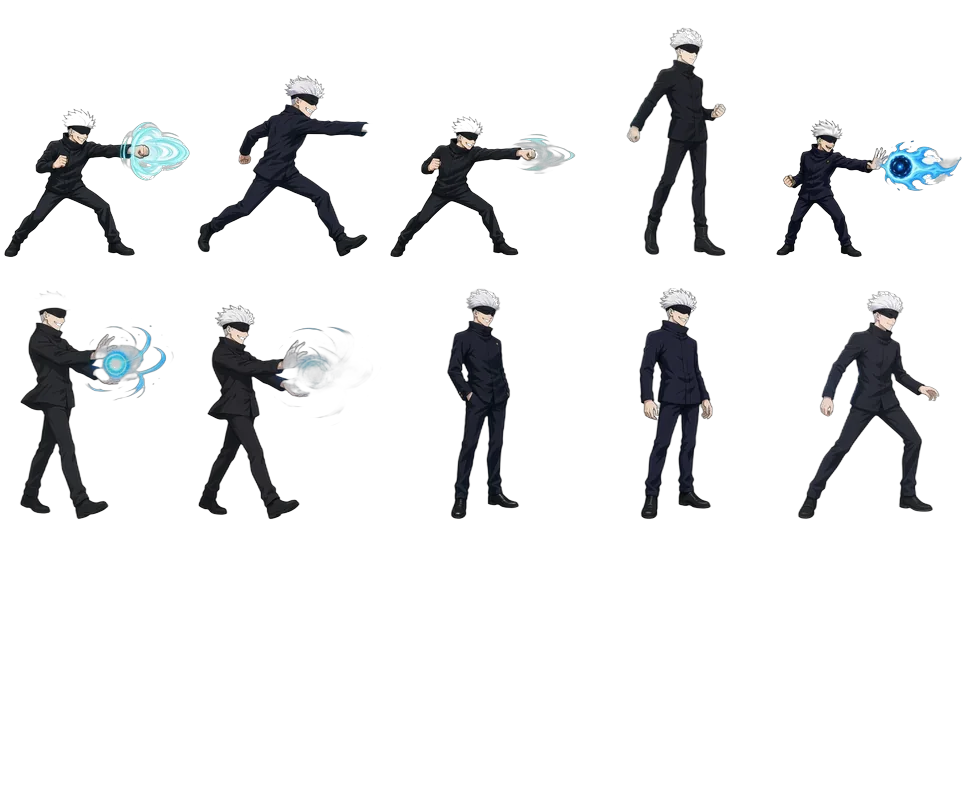
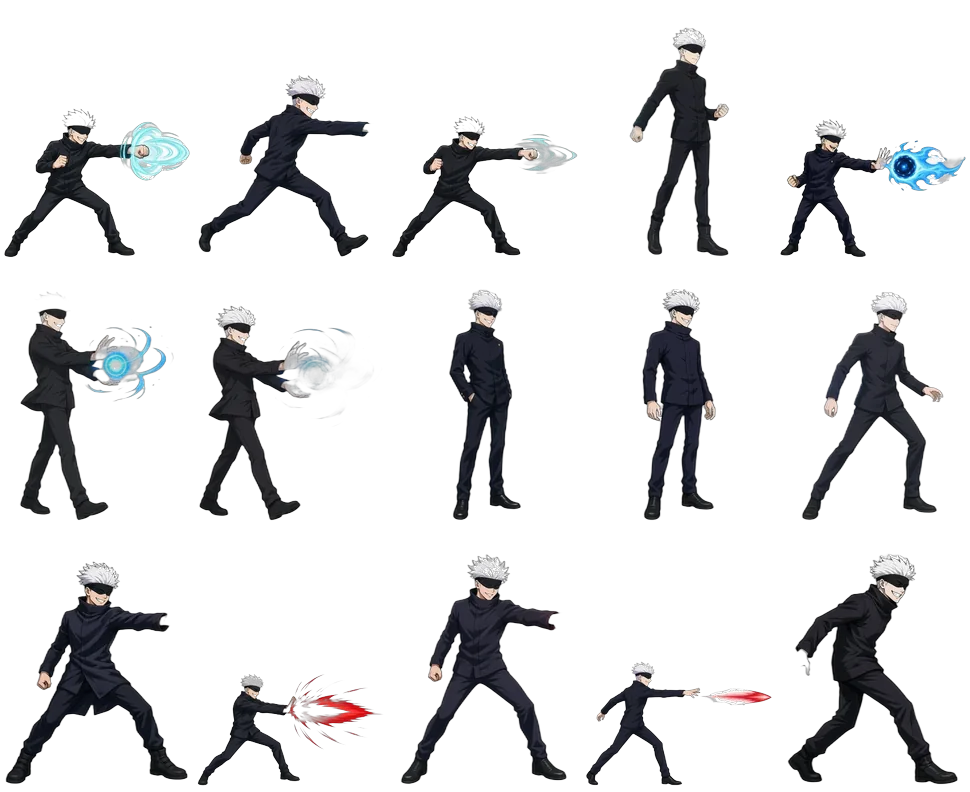
pages30p: 五条悟赫技能帧接入
装 skill_aka×6，重建 gojo atlas（4 张），drawGojo 播 g_red。

diff --git a/game.js b/game.js
@@ -70,7 +70,7 @@
   var charHover = -1;
   // pages23: spritesheet loader. Each kit is 1–3 webp atlases (~5 total) plus ~15
   // core images. fetch+blob decode; match load exclusive; 20s stall → retry UI.
-  var ASSET_V = "pages30o";
+  var ASSET_V = "pages30p";
   var ASSET_GROUPS = { core: [], obito: [], pain: [], tanjiro: [], gojo: [] };
   var assetErrors = [];
   var LOAD_CONCURRENCY = 8;
@@ -405,7 +405,7 @@
       bindArr(tanjiro.hitstun); bindArr(tanjiro.knock);
     } else if (kitId === "gojo") {
       bindArr(gojo.idle); bindArr(gojo.run); bindArr(gojo.hitstun); bindArr(gojo.knock);
-      bindArr(gojo.atk); bindArr(gojo.blue);
+      bindArr(gojo.atk); bindArr(gojo.blue); bindArr(gojo.red);
     }
   }
   function registerKitSheets(kitId) {
@@ -648,14 +648,15 @@
   var tanjiroBodyW = 211 * tanjiroScale;
   var tanjiroBodyH = 360 * tanjiroScale;
 
-  // pages30o: 五条悟 — 基础帧 + 定稿 run + 普攻/苍技能帧
+  // pages30p: 五条悟 — 基础帧 + 定稿 run + 普攻/苍/赫技能帧
   var gojo = {
     idle: loadNumbered("gojo/idle", 8),
     run: loadNumbered("gojo/run", 8),
     hitstun: loadNumbered("gojo/hitstun", 6),
     knock: loadNumbered("gojo/knockdown", 6),
     atk: loadNumbered("gojo/attack", 6),
-    blue: loadNumbered("gojo/skill_ao", 6)
+    blue: loadNumbered("gojo/skill_ao", 6),
+    red: loadNumbered("gojo/skill_aka", 6)
   };
   // canvas 320×436；opaque ~145×390；脚底距底 ~7px；面朝右 → nativeDir +1
   var gojoFootPad = 7;
@@ -4674,8 +4675,13 @@
       var ub = f.animDur > 0 ? f.animT / f.animDur : 1;
       if (ub < 0) ub = 0; if (ub > 0.999) ub = 0.999;
       idx = Math.min(5, Math.floor(ub * 6));
+    } else if (f.anim === "g_red" && gojo.red && gojo.red[0] && gojo.red[0].complete) {
+      set = gojo.red;
+      var ur = f.animDur > 0 ? f.animT / f.animDur : 1;
+      if (ur < 0) ur = 0; if (ur > 0.999) ur = 0.999;
+      idx = Math.min(5, Math.floor(ur * 6));
     } else if (f.anim && f.anim.indexOf("g_") === 0) {
-      // other skill stubs (赫/瞬步/无下限/领域) until art lands
+      // other skill stubs (瞬步/无下限/领域) until art lands
       set = gojo.idle;
       idx = Math.min(7, Math.floor(((f.animT || 0) / Math.max(0.01, f.animDur || 0.4)) * 8));
     } else if (f.gait === "run" || f.gait === "walk") {

diff --git a/index.html b/index.html
@@ -51,7 +51,7 @@
 (function(){var t0=Date.now(),el=document.getElementById("bootT");var iv=setInterval(function(){if(!document.getElementById("boot")){clearInterval(iv);return;}el.textContent=Math.round((Date.now()-t0)/1000)+"s";},500);
 window.addEventListener("error",function(e){var m=document.getElementById("bootMsg");if(m&&e&&e.target&&e.target.src)m.textContent="脚本加载失败，正在重试…";},true);})();
 </script>
-<script src="game.js?v=pages30o" onerror="(function(s){var n=document.createElement('script');n.src='game.js?v=pages30o&r='+Date.now();document.body.appendChild(n);})(this)"></script>
+<script src="game.js?v=pages30p" onerror="(function(s){var n=document.createElement('script');n.src='game.js?v=pages30p&r='+Date.now();document.body.appendChild(n);})(this)"></script>
 
 <script>
 (function(){var last=0;
